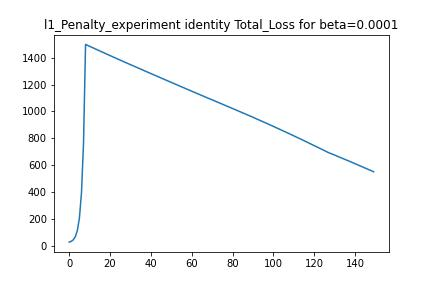
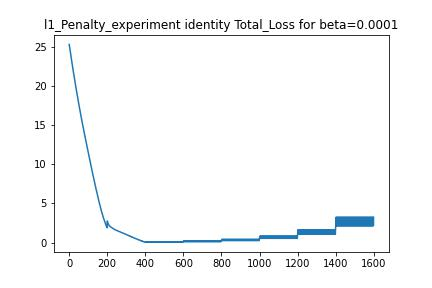
d

diff --git a/pde_cons_opt_code/main1.py b/pde_cons_opt_code/main1.py
@@ -29,6 +29,7 @@ import pandas as pd
 from jax import numpy as jnp
 from flax import linen as nn
 from jaxopt import EqualityConstrainedQP
+import jax.numpy as jnp
 
 from multiprocessing import Pool
 
@@ -70,8 +71,13 @@ features = [2, 3, 1]
 
 
 ####################################### config for penalty param #######################################
-penalty_param_update_factor = 1
-penalty_param = 1
+penalty_param_update_factor = 2
+init_penalty_param = 1
+panalty_param_upper_bound = 150
+converge_tol = 0.001
+uncons_optim_num_echos = 200
+uncons_optim_learning_rate = 0.001
+# cons_violation = 0.001 # threshold for updating penalty param
 ####################################### config for penalty param #######################################
 
 
@@ -80,14 +86,6 @@ mul = jnp.ones(2*M) # initial  for Pillo_Penalty_experiment, Augmented_Lag_exper
 mul_num_echos = 10 # for Pillo_Penalty_experiment
 alpha = 150 # for New_Augmented_Lag_experiment
 ####################################### config for lagrange multiplier #######################################
-
-
-####################################### config for Adam #######################################
-uncons_optim_num_echos = 2000
-uncons_optim_learning_rate = 0.001
-cons_violation = 0.001 # threshold for updating penalty param
-panalty_param_upper_bound = 150
-####################################### config for Adam #######################################
 
 
 ####################################### visualization #######################################
@@ -122,7 +120,7 @@ group_labels = list(range(1,2*M+1)) * 2
 #                     'Fletcher_Penalty_experiment', \  
 #                     'SQP_experiment']:
 # for experiment in ['PINN_experiment',"l1_Penalty_experiment",'l2_Penalty_experiment','linfinity_Penalty_experiment','Cubic_Penalty_experiment']:
-for experiment in ['Augmented_Lag_experiment']:
+for experiment in ['l1_Penalty_experiment']:
     # for activation_input in ['sin', \
     #                         'tanh', \
     #                         'cos']:
@@ -144,6 +142,8 @@ for experiment in ['Augmented_Lag_experiment']:
 
         absolute_error_list = []
         l2_relative_error_list = []
+
+        
         for beta in beta_list:
 
             data, sample_data, IC_sample_data, ui = dataloader.get_data(\
@@ -152,61 +152,71 @@ for experiment in ['Augmented_Lag_experiment']:
 
             model = NN(features=features, activation=activation)
             params = model.init_params(key=key, data=data)
-            params_mul = [params, mul]
 
             eval_data, _, _, eval_ui = eval_dataloader.get_data(x_data_min, x_data_max, \
             t_data_min, t_data_max, x_sample_min, x_sample_max, t_sample_min, \
             t_sample_max, beta, M)
 
-            if experiment == "SQP_experiment":
-                optim_components = OptimComponents(model, data, sample_data, IC_sample_data, ui[0], beta)
-                sqp_optim = SQP_Optim(model, optim_components, qp, features, group_labels, hessian_param, M, params)
-                updated_params, loss_list = sqp_optim.SQP_optim(params, SQP_num_iter, \
-                                            line_search_max_iter, line_search_condition, \
-                                                line_search_decrease_factor, init_stepsize, line_search_tol)
 
-                absolute_error, l2_relative_error, eval_u_theta = \
-                    sqp_optim.evaluation(updated_params, N, eval_data, eval_ui[0])
-                
-            else:
-                if experiment == "PINN_experiment":
-                    loss = PINN(model, data, sample_data, IC_sample_data, ui[0], beta, \
-                                N, M)
-                elif experiment == "l1_Penalty_experiment":
-                    loss = l1Penalty(model, data, sample_data, IC_sample_data, ui[0], beta, \
-                                N, M)
-                elif experiment == "l2_Penalty_experiment":
-                    loss = l2Penalty(model, data, sample_data, IC_sample_data, ui[0], beta, \
-                                N, M)
-                elif experiment == "linfinity_Penalty_experiment":
-                    loss = linfinityPenalty(model, data, sample_data, IC_sample_data, ui[0], beta, \
-                                N, M)
-                elif experiment == "Cubic_Penalty_experiment":
-                    loss = CubicPenalty(model, data, sample_data, IC_sample_data, ui[0], beta, \
-                                N, M)
-                elif experiment == "Augmented_Lag_experiment":
-                    loss = AugLag(model, data, sample_data, IC_sample_data, ui[0], beta, \
-                                N, M)
-                elif experiment == "Pillo_Penalty_experiment":
-                    loss = PilloPenalty(model, data, sample_data, IC_sample_data, ui[0], beta, \
-                                N, M)
-                elif experiment == "New_Augmented_Lag_experiment":
-                    loss = NewAugLag(model, data, sample_data, IC_sample_data, ui[0], beta, \
-                                N, M)
-                elif experiment == "Fletcher_Penalty_experiment":
-                    loss = FletcherPenalty(model, data, sample_data, IC_sample_data, ui[0], beta, \
-                                N, M)
-                
-                optim = Optim(model, loss, cons_violation, panalty_param_upper_bound)
-                updated_params, loss_list = optim.adam_update(params, \
-                                                        uncons_optim_num_echos, uncons_optim_learning_rate, \
-                                                        penalty_param, penalty_param_update_factor, \
-                                                        experiment, mul, params_mul, mul_num_echos, alpha)
+            penalty_param = init_penalty_param
+            total_loss_list = []
+            while penalty_param < panalty_param_upper_bound:
+                if experiment == "SQP_experiment":
+                    optim_components = OptimComponents(model, data, sample_data, IC_sample_data, ui[0], beta)
+                    sqp_optim = SQP_Optim(model, optim_components, qp, features, group_labels, hessian_param, M, params)
+                    params, loss_list = sqp_optim.SQP_optim(params, SQP_num_iter, \
+                                                line_search_max_iter, line_search_condition, \
+                                                    line_search_decrease_factor, init_stepsize, line_search_tol)
 
+                    # absolute_error, l2_relative_error, eval_u_theta = \
+                    #     sqp_optim.evaluation(params, N, eval_data, eval_ui[0])
+                    
+                else:
+                    if experiment == "PINN_experiment":
+                        loss = PINN(model, data, sample_data, IC_sample_data, ui[0], beta, \
+                                    N, M)
+                    elif experiment == "l1_Penalty_experiment":
+                        loss = l1Penalty(model, data, sample_data, IC_sample_data, ui[0], beta, \
+                                    N, M)
+                    elif experiment == "l2_Penalty_experiment":
+                        loss = l2Penalty(model, data, sample_data, IC_sample_data, ui[0], beta, \
+                                    N, M)
+                    elif experiment == "linfinity_Penalty_experiment":
+                        loss = linfinityPenalty(model, data, sample_data, IC_sample_data, ui[0], beta, \
+                                    N, M)
+                    elif experiment == "Cubic_Penalty_experiment":
+                        loss = CubicPenalty(model, data, sample_data, IC_sample_data, ui[0], beta, \
+                                    N, M)
+                    elif experiment == "Augmented_Lag_experiment":
+                        loss = AugLag(model, data, sample_data, IC_sample_data, ui[0], beta, \
+                                    N, M)
+                    elif experiment == "Pillo_Penalty_experiment":
+                        loss = PilloPenalty(model, data, sample_data, IC_sample_data, ui[0], beta, \
+                                    N, M)
+                    elif experiment == "New_Augmented_Lag_experiment":
+                        loss = NewAugLag(model, data, sample_data, IC_sample_data, ui[0], beta, \
+                                    N, M)
+                    elif experiment == "Fletcher_Penalty_experiment":
+                        loss = FletcherPenalty(model, data, sample_data, IC_sample_data, ui[0], beta, \
+                                    N, M)
+                    
+                    optim = Optim(model, loss, panalty_param_upper_bound)
+                    params, loss_list, grad_loss = optim.adam_update(params, \
+                                                            uncons_optim_num_echos, uncons_optim_learning_rate, \
+                                                            penalty_param, penalty_param_update_factor, \
+                                                            experiment, mul, mul_num_echos, alpha)
+                    
+                    penalty_param = penalty_param_update_factor * penalty_param
+                    print(grad_loss, penalty_param)
+                    if grad_loss < converge_tol:
+                        break
+                    
+                total_loss_list.append(loss_list)
                 absolute_error, l2_relative_error, eval_u_theta = optim.evaluation(\
-                                                updated_params, N, eval_data, eval_ui[0])
+                                                params, N, eval_data, eval_ui[0])
                 
-            visual.line_graph(loss_list, "/{activation_name}/Total_Loss".\
+            total_loss_list = jnp.concatenate(jnp.array(total_loss_list))
+            visual.line_graph(total_loss_list, "/{activation_name}/Total_Loss".\
                 format(activation_name=activation_name), experiment=experiment, beta=beta)
             visual.line_graph(eval_ui[0], "/{activation_name}/True_sol".\
                     format(activation_name=activation_name), experiment=experiment, beta=beta)
@@ -220,7 +230,7 @@ for experiment in ['Augmented_Lag_experiment']:
             absolute_error_list.append(absolute_error)
             l2_relative_error_list.append(l2_relative_error)
 
-            print("last loss: "+str(loss_list[-1]))
+            print("last loss: "+str(total_loss_list[-1]))
             print("absolute_error: " + str(absolute_error))
             print("l2_relative_error: " + str(l2_relative_error))
 

diff --git a/pde_cons_opt_code/uncons_opt.py b/pde_cons_opt_code/uncons_opt.py
@@ -10,16 +10,20 @@ from tqdm.notebook import tqdm
 import pandas as pd
 from flax.core.frozen_dict import unfreeze
 # from tqdm import tqdm
-# import jaxopt
+import numpy as np
 
-# from flat_params import FlatParams
 
 class Optim:
-    def __init__(self, model, Loss, cons_violation, panalty_param_upper_bound) -> None:
+    def __init__(self, model, Loss, panalty_param_upper_bound) -> None:
         self.model = model
         self.Loss = Loss
-        self.cons_violation = cons_violation
+        # self.cons_violation = cons_violation
         self.panalty_param_upper_bound = panalty_param_upper_bound
+
+
+    def check_converge(self, grad_loss):
+        return np.square(np.linalg.norm(np.concatenate(pd.DataFrame.from_dict(unfreeze(grad_loss["params"])).\
+                        applymap(lambda x: x.flatten()).values.flatten()),ord=2))
 
 
     def update(self, opt, grads, optim_object):
@@ -31,7 +35,7 @@ class Optim:
 
     def adam_update(self, params, num_echos, learning_rate, \
                     penalty_param, penalty_param_update_factor, experiment, \
-                    mul, params_mul, mul_num_echos, alpha):
+                    mul, mul_num_echos, alpha):
         
         opt = optax.adam(learning_rate)
         loss_list = []
@@ -43,28 +47,31 @@ class Optim:
 
                 l, grads = value_and_grad(self.Loss.loss, 0)(params, updated_mul, penalty_param)
                 eq_cons = self.Loss.eq_cons(params)
-                eq_cons_violation = jnp.square(jnp.linalg.norm(eq_cons,ord=2))
-                if eq_cons_violation > self.cons_violation and penalty_param < self.panalty_param_upper_bound:
-                    penalty_param = penalty_param_update_factor * penalty_param
+                # eq_cons_violation = jnp.square(jnp.linalg.norm(eq_cons,ord=2))
+                # if eq_cons_violation > self.cons_violation and penalty_param < self.panalty_param_upper_bound:
+                #     penalty_param = penalty_param_update_factor * penalty_param
                 params = self.update(opt=opt, grads= grads, optim_object=params)
                 loss_list.append(l)
+
+            grad_loss = self.check_converge(jacfwd(self.Loss.loss, 0)(params, updated_mul, penalty_param))
 
         elif experiment == "Augmented_Lag_experiment":
             for _ in tqdm(range(num_echos)):
                 l, grads = value_and_grad(self.Loss.loss, 0)(params, mul, penalty_param)
                 eq_cons = self.Loss.eq_cons(params)
-                eq_cons_violation = jnp.square(jnp.linalg.norm(eq_cons,ord=2))
+                # eq_cons_violation = jnp.square(jnp.linalg.norm(eq_cons,ord=2))
                 mul = mul + penalty_param * eq_cons
-                if eq_cons_violation > self.cons_violation and penalty_param < self.panalty_param_upper_bound:
-                    penalty_param = penalty_param_update_factor * penalty_param
+                # if eq_cons_violation > self.cons_violation and penalty_param < self.panalty_param_upper_bound:
+                #     penalty_param = penalty_param_update_factor * penalty_param
                 params = self.update(opt=opt, grads= grads, optim_object=params)
                 loss_list.append(l)
+            grad_loss = self.check_converge(jacfwd(self.Loss.loss, 0)(params, mul, penalty_param))
 
         elif experiment == "New_Augmented_Lag_experiment":
             for _ in tqdm(range(num_echos)):
                 l, grads = value_and_grad(self.Loss.loss, 0)(params, mul, penalty_param, alpha)
                 eq_cons = self.Loss.eq_cons(params)
-                eq_cons_violation = jnp.square(jnp.linalg.norm(eq_cons,ord=2))
+                # eq_cons_violation = jnp.square(jnp.linalg.norm(eq_cons,ord=2))
 
                 Ax_pinv = -pd.DataFrame.from_dict(unfreeze(jacfwd(self.Loss.eq_cons, 0)(params)["params"])).\
                             applymap(lambda x: jnp.transpose(jnp.linalg.pinv(x), \
@@ -73,31 +80,34 @@ class Optim:
                 gx = pd.DataFrame.from_dict(unfreeze(jacfwd(self.Loss.l_k, 0)(params)["params"])).values.flatten()
                 Ax_pinv_gx = lambda x, y: (x * y).sum(axis=(1,2)) if y.ndim == 3 else (x * y).sum(axis=1)
                 mul = jnp.array(list(map(Ax_pinv_gx, gx, Ax_pinv))).sum(axis=0)
-                if eq_cons_violation > self.cons_violation and penalty_param < self.panalty_param_upper_bound:
-                    penalty_param = penalty_param_update_factor * penalty_param
+                # if eq_cons_violation > self.cons_violation and penalty_param < self.panalty_param_upper_bound:
+                #     penalty_param = penalty_param_update_factor * penalty_param
                 params = self.update(opt=opt, grads= grads, optim_object=params)
                 loss_list.append(l)
+            grad_loss = self.check_converge(jacfwd(self.Loss.loss, 0)(params, mul, penalty_param, alpha))
 
         elif experiment == "Fletcher_Penalty_experiment":
             for _ in tqdm(range(num_echos)):
                 l, grads = value_and_grad(self.Loss.loss, 0)(params, penalty_param)
                 eq_cons = self.Loss.eq_cons(params)
-                eq_cons_violation = jnp.square(jnp.linalg.norm(eq_cons,ord=2))
-                if eq_cons_violation > self.cons_violation and penalty_param < self.panalty_param_upper_bound:
-                    penalty_param = penalty_param_update_factor * penalty_param
+                # eq_cons_violation = jnp.square(jnp.linalg.norm(eq_cons,ord=2))
+                # if eq_cons_violation > self.cons_violation and penalty_param < self.panalty_param_upper_bound:
+                #     penalty_param = penalty_param_update_factor * penalty_param
                 params = self.update(opt=opt, grads= grads, optim_object=params)
                 loss_list.append(l)
+            grad_loss = self.check_converge(jacfwd(self.Loss.loss, 0)(params, penalty_param))
 
         else:
             for _ in tqdm(range(num_echos)):
                 l, grads = value_and_grad(self.Loss.loss, 0)(params, penalty_param)
                 params = self.update(opt=opt, grads = grads, optim_object=params)
                 eq_cons = self.Loss.eq_cons(params)
-                eq_cons_violation = jnp.square(jnp.linalg.norm(eq_cons,ord=2))
-                if eq_cons_violation > self.cons_violation and penalty_param < self.panalty_param_upper_bound:
-                    penalty_param = penalty_param_update_factor * penalty_param
+                # eq_cons_violation = jnp.square(jnp.linalg.norm(eq_cons,ord=2))
+                # if eq_cons_violation > self.cons_violation and penalty_param < self.panalty_param_upper_bound:
+                #     penalty_param = penalty_param_update_factor * penalty_param
                 loss_list.append(l)
-        return params, jnp.array(loss_list)
+            grad_loss = self.check_converge(jacfwd(self.Loss.loss, 0)(params, 1))
+        return params, jnp.array(loss_list), grad_loss
 
 
     # def LBFGS_update(self, params, maxiter, linesearch, penalty_param):
@@ -113,5 +123,7 @@ class Optim:
         absolute_error = 1/N * jnp.linalg.norm(u_theta-ui, ord = 2)
         l2_relative_error = 1/N * (jnp.linalg.norm((u_theta-ui), ord = 2) / jnp.linalg.norm((ui), ord = 2))
         return absolute_error, l2_relative_error, u_theta
+    
+
     
     
